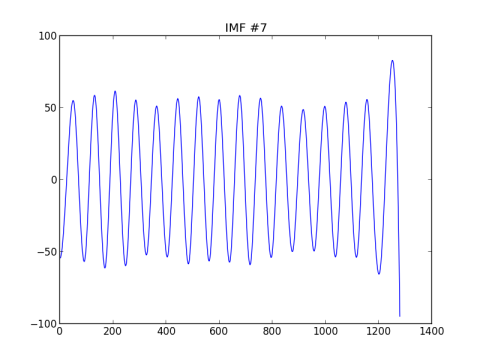
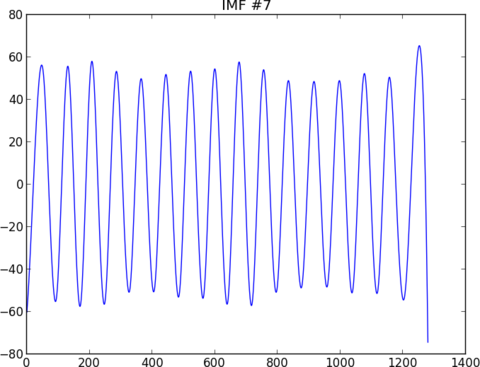
pyeemd: update tutorial

Changed region(s): [[0.0, 0.0, 1.0, 1.0]]

diff --git a/pyeemd/doc/tutorial.rst b/pyeemd/doc/tutorial.rst
@@ -47,12 +47,11 @@ the data looks like using :mod:`matplotlib.pyplot`.
 The data stored in `ecg` can be decomposed with CEEMDAN using the routine
 :func:`~pyeemd.ceemdan`. The only thing we need to decide is what to use as the
 stopping criterion for the sifting iterations. In this example we use a
-S-number of 4. The other choice would be to set a maximum number of siftings
-(as used in the reference EEMD code) by using the parameter `num_siftings`::
+S-number of 4 and a maximum number of siftings of 50::
 
     from pyeemd import ceemdan
 
-    imfs = ceemdan(ecg, S_number=4)
+    imfs = ceemdan(ecg, S_number=4, num_siftings=50)
 
 Now the rows of the 2D array `imfs` are the IMFs the original signal decomposes
 to when applying CEEMDAN. We can plot these IMFs using :mod:`matplotlib.pyplot`
